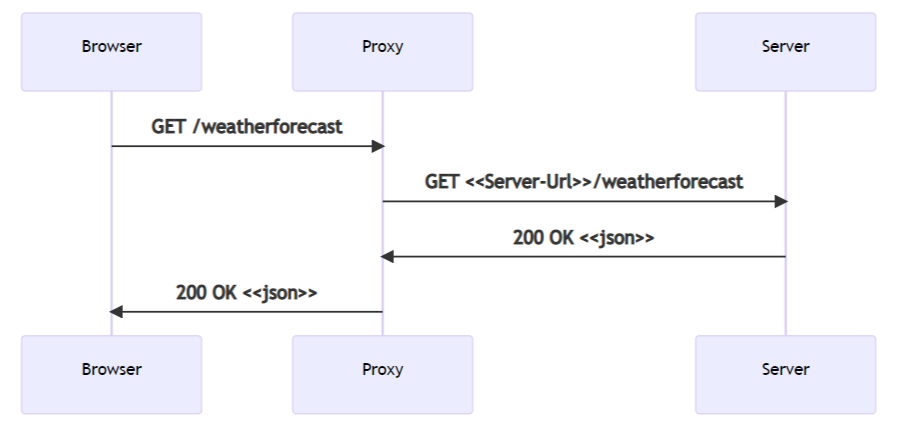
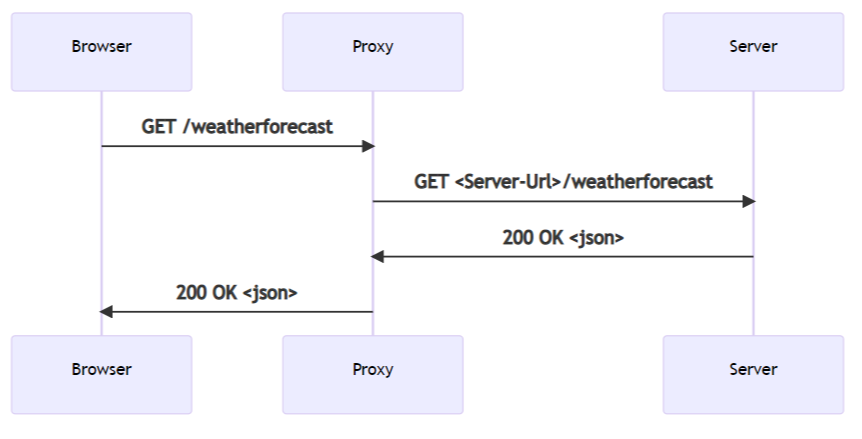
Intro to SPA's /4

diff --git a/aspnetcore/client-side/spa/intro/mermaid/1_BPS.md b/aspnetcore/client-side/spa/intro/mermaid/1_BPS.md
@@ -4,11 +4,11 @@ participant Browser
 participant Proxy
 participant Server
 Browser->>Server: GET /
-alt Proxy is running
-  Server->>Browser: 301 Redirect <<Proxy-URL>>
+Proxy? Proxy is running
+  Server->>Browser: 301 Redirect <Proxy-URL>
 else Proxy is not running
   Server->>Proxy: Launch
-  par Browser checks with server if the proxy is running
+  BrowserChecks Browser checks with server if the proxy is running
     loop Until SPA proxy is running
       Server->>Browser: 200 OK <html>...</html>
       Browser->>Browser: Wait
@@ -16,7 +16,7 @@ else Proxy is not running
     end
   and Server checks if proxy is ready
     loop Until SPA proxy is ready
-      Server->>Proxy: GET <<Proxy-Url>>
+      Server->>Proxy: GET <Proxy-Url>
       alt Proxy not ready
         Proxy->>Server: Error
       else Proxy ready
@@ -24,9 +24,9 @@ else Proxy is not running
       end
     end
   end
-  Server->>Browser: 301 Redirect <<Proxy-URL>>
+  Server->>Browser: 301 Redirect <Proxy-URL>
 end
-Browser->>Proxy: GET <<Proxy-URL>>
+Browser->>Proxy: GET <Proxy-URL>
 Proxy->>Browser: 200 OK <html>...</html>
 loop Other resources and requests
   Browser->>Proxy: HTTP Request
